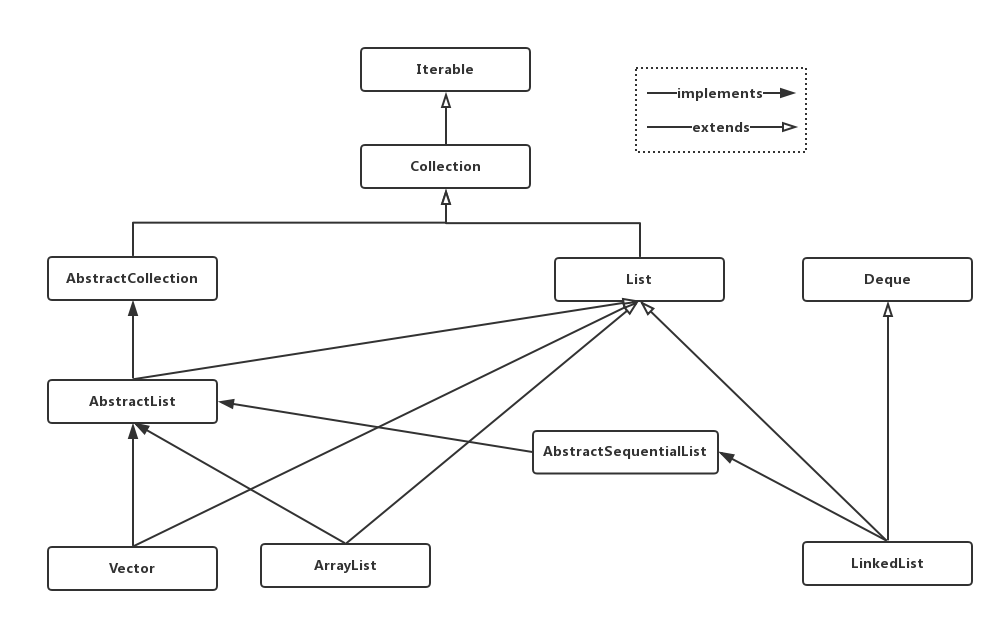
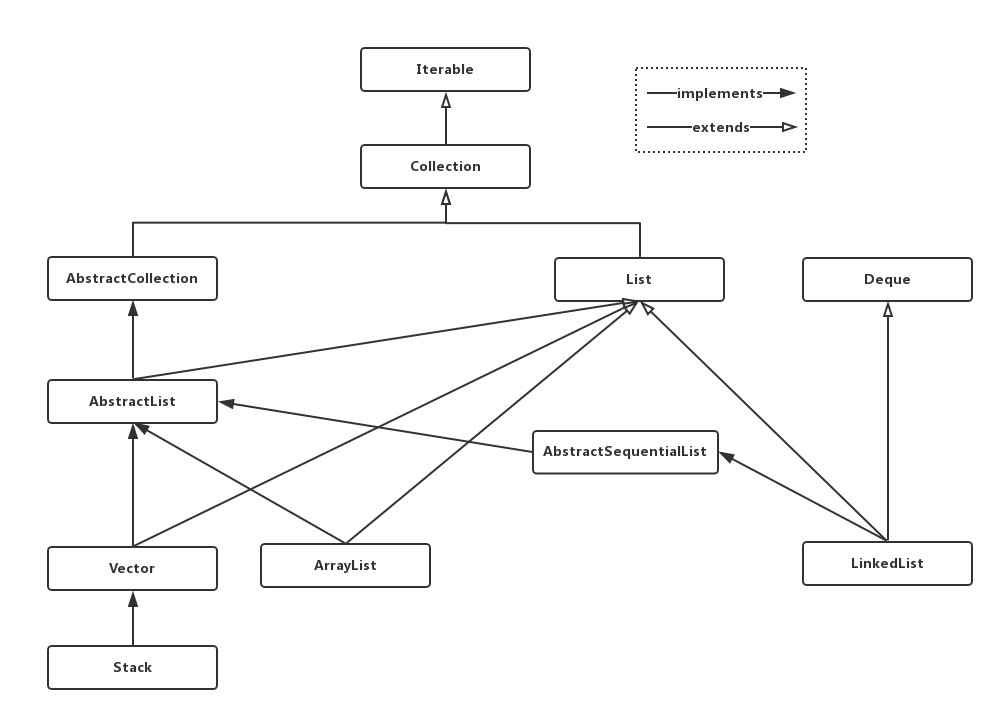
Java集合之List

diff --git a/编程语言/Java语言系列/Java基础/collection/Java集合之List.md b/编程语言/Java语言系列/Java基础/collection/Java集合之List.md
@@ -4,3 +4,24 @@
 在Java语言中，列表有`java.util`包中的`List`接口指定。`List`接口继承了`Clolection`接口。
 
 ![List类继承](./images/list.png)
+
+下列代码展示了`List`接口中一些基本的重要方法：
+```java
+public interface List<T> extends Collection<T> {
+    T get(int idx);
+    T set(int idx, T val);
+    void add(int idx, T val);
+    void remove(int idx);
+
+    ListIterator<T> listIterator(int pos);
+}
+```
+其中`get`和`set`可以访问或改变通过由位置索引`idx`给定的表中指定位置上的项。
+
+`List`的类继承体系中主要有三个常用的实现类，分别是`Stack`，`Vector`, `ArrayList`和`LinkedList`。
+
+`List`具有两种流行的实现方式。`ArrayList`提供了一种 **可增长数组实现**。使用`ArrayList`的有点在于，按秩访问`get`和`set`调用花费常数时间。其缺点是新项的插入和现有项的删除代价高昂。除非变动是在`ArrayList`末端进行。`LinkedList`类则提供了`List`的 **双向链表实现** 。使用`LinkedList`的优点在于，新项的插入和现有项的删除均开销很小，这里假设变动项的位置是已知的。这意味着，在表的前端进行添加和删除都是常数时间的操作，由此`LinkedList`提供了方法`addFirst`和`removeFirst`、`addLast`和 `removeLast`以及`getFrist`和`getLast`等方法高效地添加、删除和访问表两端的项。使用`LinkedList`的缺点是寻秩索引元素时时间成本昂贵，例如`get`和`set`操作，除非调用接近表端点。
+
+`Vector`和`Stack`类是两个遗留类，其中`Stack`扩展了`Vector`。`Vector`具有和`ArrayList`基本相同的API，区别在于`Vector`所有方法都实现同步，也就是说`Vector`是线程安全的，这个特性在其子类`Stack`上也得到了体现。另外，`Stack`是栈这种数据结构的实现。因此，虽然`Stack`扩展了`Vector`，但是我们发现`Stack`类的API与`Vector`有很大不同。
+
+

diff --git a/编程语言/Java语言系列/README.md b/编程语言/Java语言系列/README.md
@@ -32,6 +32,7 @@ Java生态相关的知识笔记。
 >> - [Java Collection之Hashtable使用与原理](./Java基础/collection/JavaCollection之深入理解Hashtable.md)
 >> - [Java Collection之LinkedHashMap使用与原理](./Java基础/collection/JavaCollection之深入理解LinkedHashMap.md)
 >> - [Java Collection之TreeMap工作原理与实现](./Java基础/collection/JavaCollection之TreeMap工作原理与实现.md)
+>> - [Java集合之List](./Java基础/collection/Java集合之List.md)
 > 
 > 
 ## Java消息中间件
